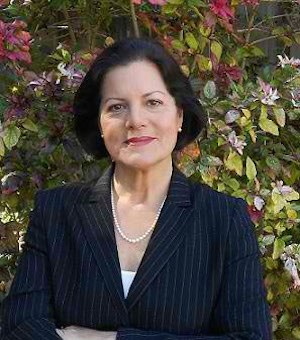
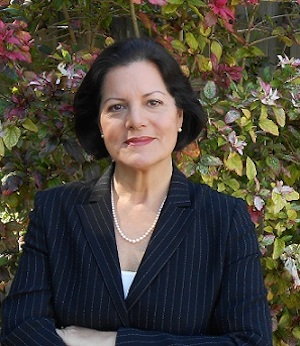
Updated headshots. Attempted to integrate bettercontactforms

diff --git a/app/scripts/router.js b/app/scripts/router.js
@@ -249,6 +249,6 @@ var contacts = [{
 	id: 'send-email',
 	linkTitle: 'Send E-mail',
 	title: 'Send Us An E-mail',
-	summary: '<p>Get started today.</p> \
-	<a id="bcf_trigger" href="http://bettercontactform.com" rel="bcf_trigger">Free Contact Form</a>'
+	summary: '<div class="bcf_content"><h2>Contact Us</h2> \
+	<button class="btn-login" rel="contactus">Contact Us</button>'
 }];

diff --git a/app/styles/style.scss b/app/styles/style.scss
@@ -483,6 +483,7 @@ button.cta-btn {
   text-align: center;
   padding-top: 40px;
   padding-bottom: 40px;
+  margin-bottom: -40px;
 }
 
 .container-narrow > hr {
@@ -506,6 +507,7 @@ button.cta-btn {
     margin-top: 28px;
   }
 }
+
 
 @media screen and (max-width: 1200px) {
 	.bio-contact-box .bio-contact-info {
